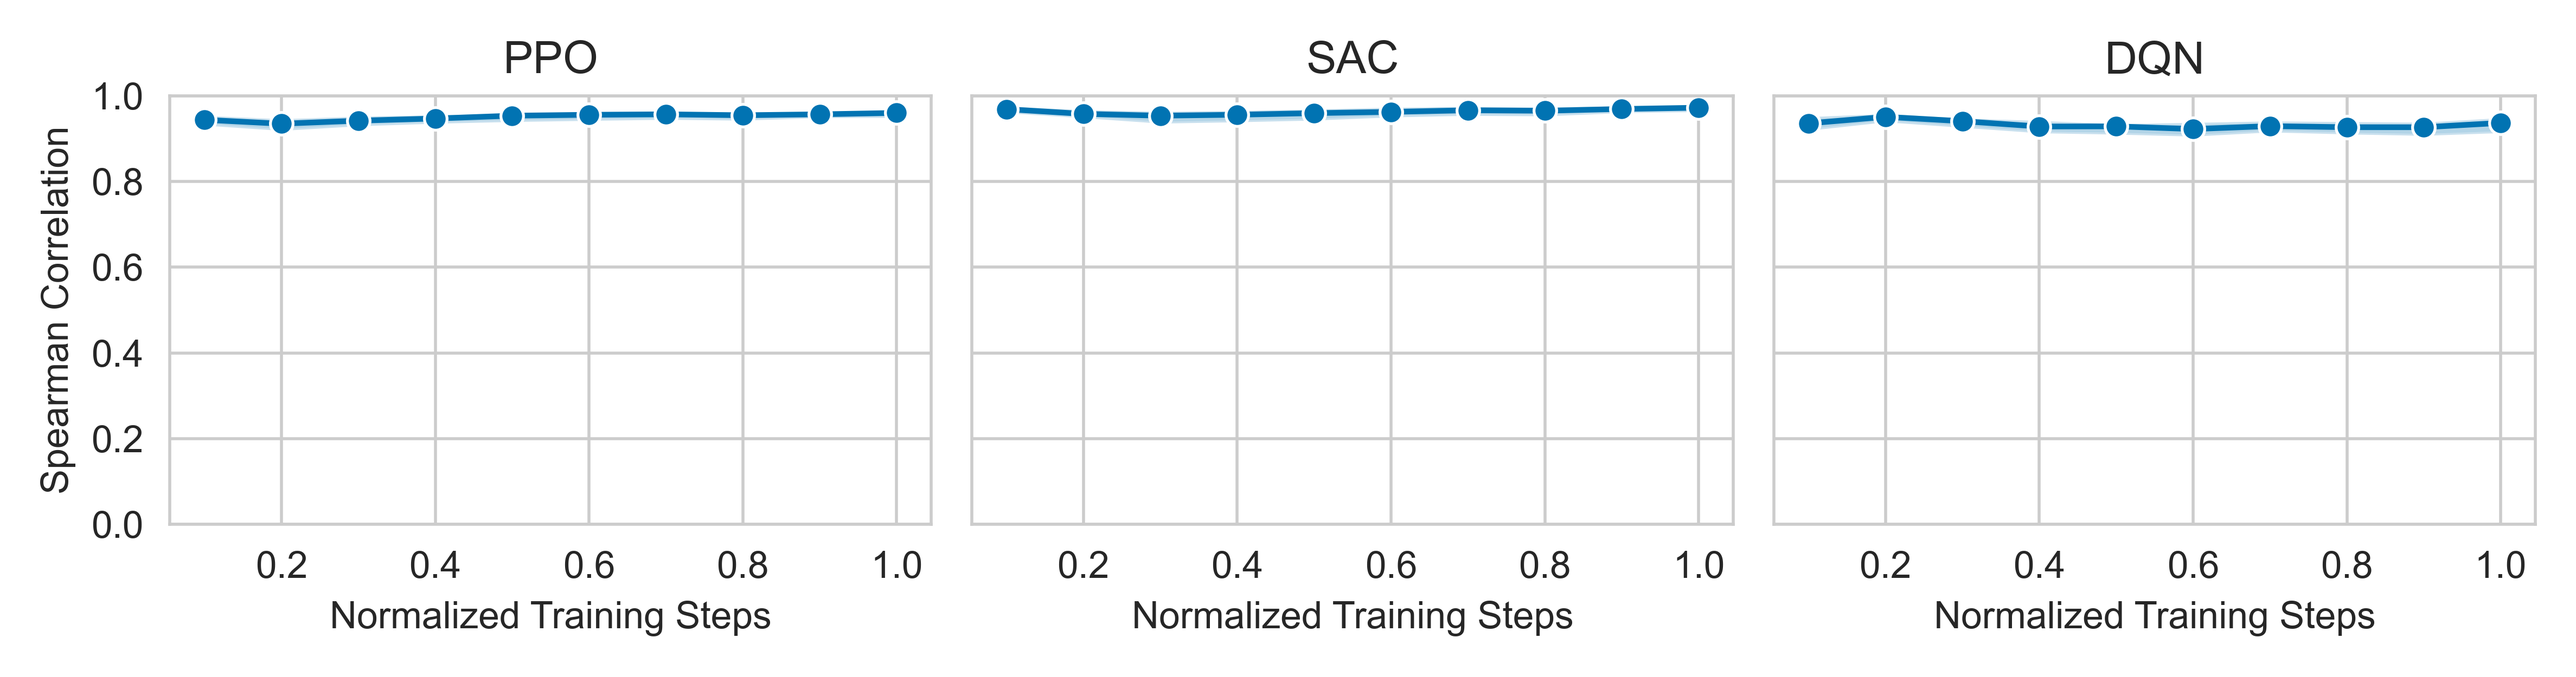
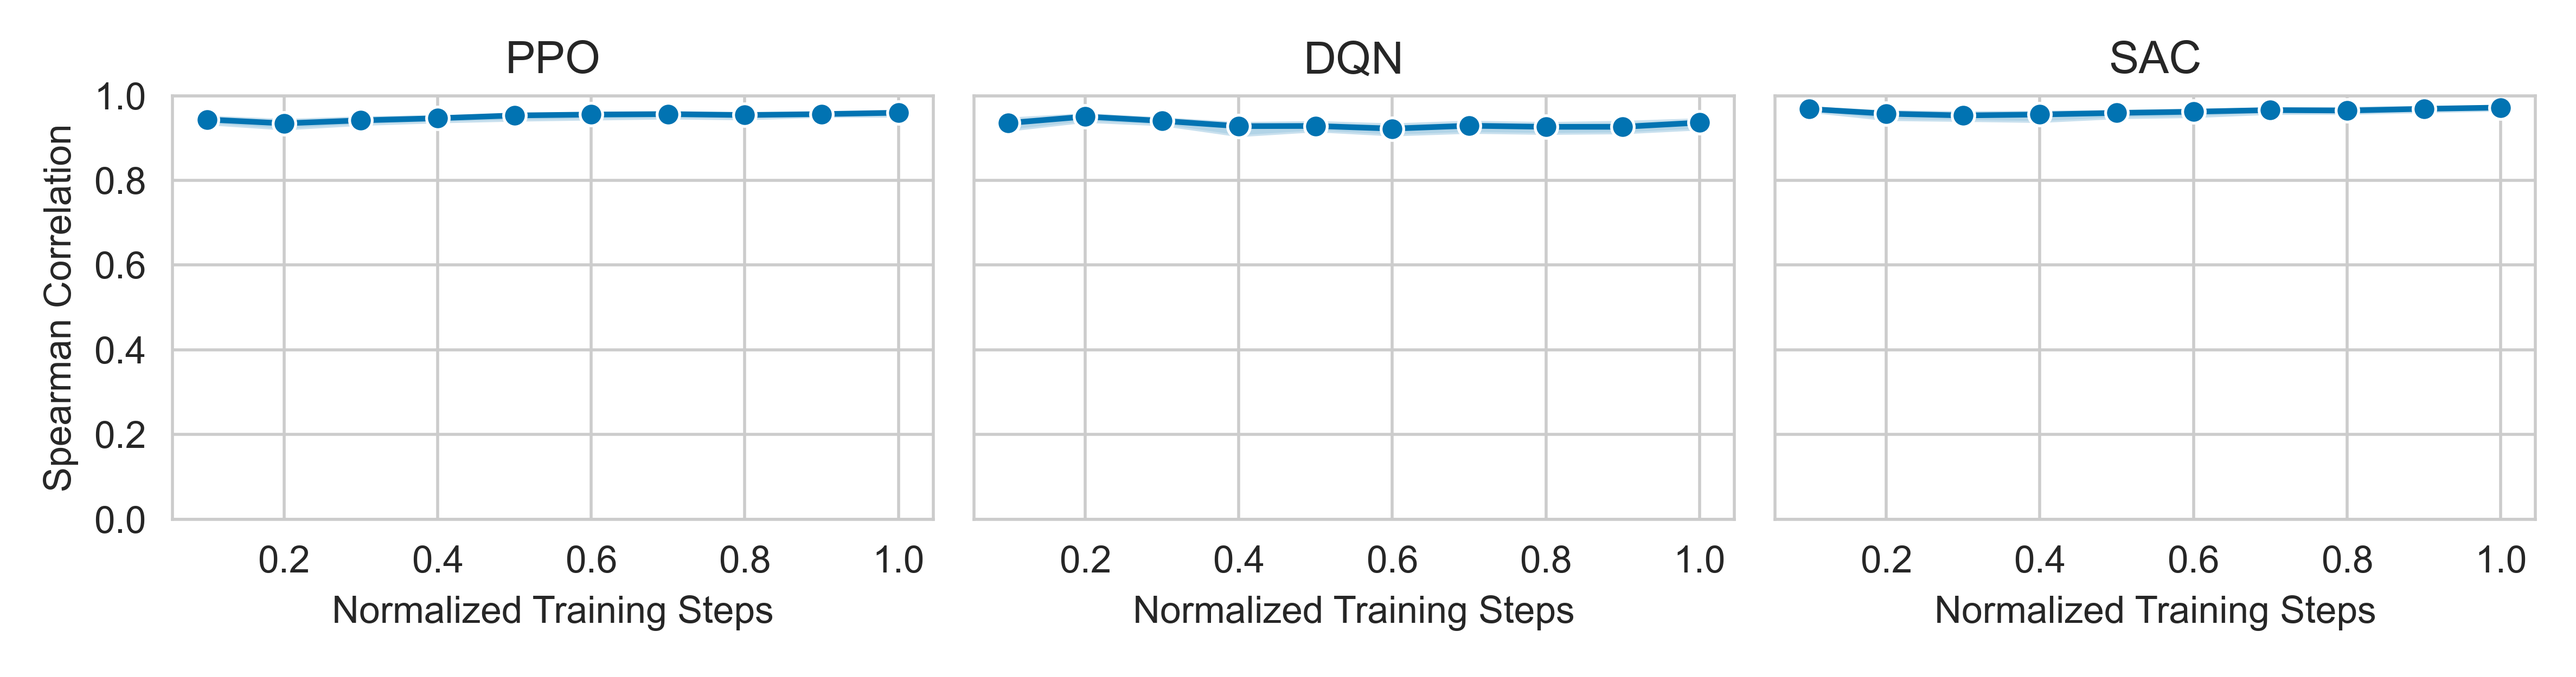
updated ordering of algorithms in temp. corr. plot

diff --git a/subset_validation/temporal_correlation.py b/subset_validation/temporal_correlation.py
@@ -185,7 +185,7 @@ def get_temporal_correlation(full_set: pd.DataFrame, algorithm: str, n_bootstrap
 
 def plot_temporal_correlation(all_data: dict[str, pd.DataFrame]):
     fig, axs = plt.subplots(1, 3, figsize=(9.5, 2.5), sharey=True)
-    for algorithm, ax in zip(all_data.keys(), axs):
+    for algorithm, ax in zip(["ppo", "dqn", "sac"], axs):
         results = get_temporal_correlation(all_data[algorithm], algorithm)
 
         sns.lineplot(data=results, x='budget', y='spearman_corr', ax=ax, marker='o')
